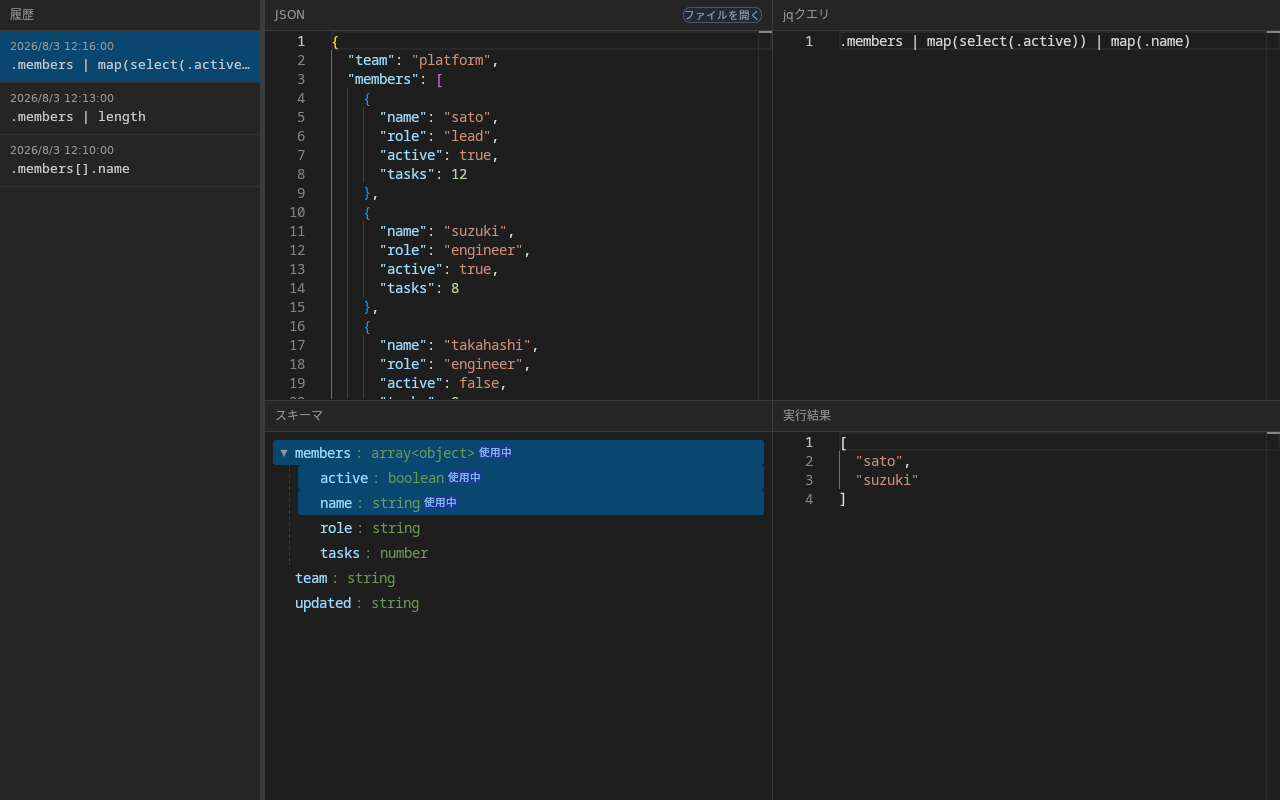
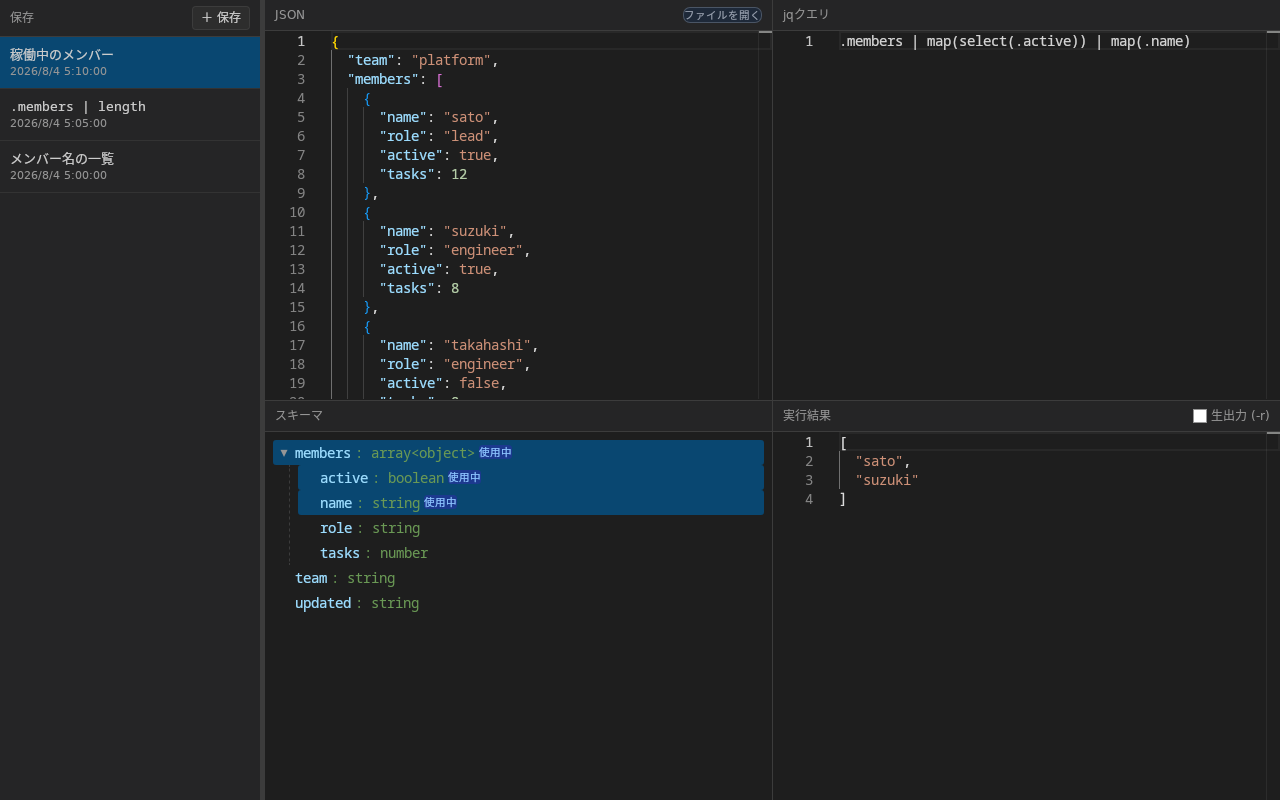
サイト公開: ビルド成果物を更新

Changed region(s): [[0.0, 0.0, 0.2188, 0.1562], [0.0, 0.1875, 0.0938, 0.2188], [0.9375, 0.5, 0.9688, 0.5312]]

diff --git a/apps/shiboq/index.html b/apps/shiboq/index.html
@@ -1,3 +1,3 @@
-<!doctype html><html lang=ja><head><meta charset=UTF-8><meta name=viewport content="width=device-width,initial-scale=1"><title>アプリ紹介</title><meta name=description content="オリジナルアプリを紹介するページ"><link rel=stylesheet href=/css/style.css></head><body><main class=container><p><a class=back-link href=/>&larr; アプリ一覧へ</a></p><article class=app-detail><header class=detail-header><h1>shiboq</h1><span class=app-platform>Windows</span><p class=app-tagline>jq のクエリを書きながら結果をその場で確認できるデスクトップアプリ</p></header><figure class=detail-shot><img src=/img/shiboq.png alt="shiboq のスクリーンショット"></figure><p class=app-note>名前は必要な部分を「絞る（しぼる）」と、JSON を扱う道具 jq の q を合わせた造語。</p><section class=detail-section><h2>どんなアプリ？</h2><ul><li>JSON から必要な部分を取り出す「jq」という書き方を、試しながら書けるデスクトップアプリ。</li><li>JSON を貼り付けて書き方を入力すると、手が止まったタイミングで自動的に実行され、結果が表示されます。</li><li>実行ボタンを押す必要はなく、書いては結果を見て直す、を繰り返せます。</li></ul></section><section class=detail-section><h2>画面</h2><ul><li>5つのエリアに分かれています。左が「履歴」、中央上が元の「JSON」、中央下がその「スキーマ」。</li><li>右上が「jqクエリ」（取り出し方を書く欄）、右下が「実行結果」。</li><li>中央下のスキーマには、JSON に含まれるキー（項目名）とその種類が一覧で表示されます。</li></ul></section><section class=detail-section><h2>書きながら助けになる機能</h2><ul><li>いま書いているクエリが参照しているキーが、スキーマの一覧で色付きで示されます。</li><li>クエリ欄では、その JSON に含まれるキー名や jq のよく使う関数が入力候補として出ます。</li><li>書き間違えて動かないときは、間違いの内容が表示され、結果は直前に成功したものが残ります。</li></ul></section><section class=detail-section><h2>履歴</h2><ul><li>実行がうまくいくたびに、そのときの JSON・クエリ・結果がまとめて履歴に残ります。</li><li>履歴をクリックすると、その3つがまとめて元に戻るので、前の状態からやり直せます。</li><li>履歴はパソコン内に保存され、アプリを閉じても残ります（古いものから自動で整理されます）。</li></ul></section><section class=detail-section><h2>そのほか</h2><ul><li>jq を別途インストールする必要はありません（アプリに内蔵されています）。</li><li>インターネットにつながなくても使えます。</li><li>履歴一覧の幅はドラッグで変えられ、次に開いたときも保たれます。</li></ul></section><div class="app-links detail-links"><a class="btn btn-primary" href=https://github.com/morststs/shiboq/releases/latest/download/shiboq-windows-amd64.zip target=_blank rel="noopener noreferrer">アプリダウンロード (.zip)</a>
+<!doctype html><html lang=ja><head><meta charset=UTF-8><meta name=viewport content="width=device-width,initial-scale=1"><title>アプリ紹介</title><meta name=description content="オリジナルアプリを紹介するページ"><link rel=stylesheet href=/css/style.css></head><body><main class=container><p><a class=back-link href=/>&larr; アプリ一覧へ</a></p><article class=app-detail><header class=detail-header><h1>shiboq</h1><span class=app-platform>Windows</span><p class=app-tagline>jq のクエリを書きながら結果をその場で確認できるデスクトップアプリ</p></header><figure class=detail-shot><img src=/img/shiboq.png alt="shiboq のスクリーンショット"></figure><p class=app-note>名前は必要な部分を「絞る（しぼる）」と、JSON を扱う道具 jq の q を合わせた造語。</p><section class=detail-section><h2>どんなアプリ？</h2><ul><li>JSON から必要な部分を取り出す「jq」という書き方を、試しながら書けるデスクトップアプリ。</li><li>JSON を貼り付けて書き方を入力すると、手が止まったタイミングで自動的に実行され、結果が表示されます。</li><li>実行ボタンを押す必要はなく、書いては結果を見て直す、を繰り返せます。</li></ul></section><section class=detail-section><h2>画面</h2><ul><li>5つのエリアに分かれています。左が「保存」、中央上が元の「JSON」、中央下がその「スキーマ」。</li><li>右上が「jqクエリ」（取り出し方を書く欄）、右下が「実行結果」。</li><li>中央下のスキーマには、JSON に含まれるキー（項目名）とその種類が一覧で表示されます。</li></ul></section><section class=detail-section><h2>書きながら助けになる機能</h2><ul><li>いま書いているクエリが参照しているキーが、スキーマの一覧で色付きで示されます。</li><li>クエリ欄では、その JSON に含まれるキー名や jq のよく使う関数が入力候補として出ます。</li><li>書き間違えて動かないときは、間違いの内容が表示され、結果は直前に成功したものが残ります。</li><li>結果が文字列のときは、引用符を外した「生出力」表示に切り替えられます（表形式で取り出したときに読みやすくなります）。</li></ul></section><section class=detail-section><h2>保存</h2><ul><li>残しておきたい状態は「＋ 保存」ボタン（または Ctrl+S）で保存します。自動では保存されません。</li><li>保存するとき名前を付けられます。省略した場合は、そのときのクエリが一覧に表示されます。</li><li>一覧をクリックすると、JSON・クエリ・結果の3つがまとめて元に戻るので、前の状態からやり直せます。</li><li>保存したものはパソコン内に残り、アプリを閉じても消えません。いらなくなったものは削除できます。</li></ul></section><section class=detail-section><h2>そのほか</h2><ul><li>jq を別途インストールする必要はありません（アプリに内蔵されています）。</li><li>インターネットにつながなくても使えます。</li><li>保存一覧の幅はドラッグで変えられ、次に開いたときも保たれます。</li></ul></section><div class="app-links detail-links"><a class="btn btn-primary" href=https://github.com/morststs/shiboq/releases/latest/download/shiboq-windows-amd64.zip target=_blank rel="noopener noreferrer">アプリダウンロード (.zip)</a>
 <a class=btn href=https://github.com/morststs/shiboq/releases/latest target=_blank rel="noopener noreferrer">最新リリース</a>
 <a class=btn href=https://github.com/morststs/shiboq target=_blank rel="noopener noreferrer">GitHub</a></div></article></main><footer class=site-footer><p>&copy; 2026 アプリ紹介</p></footer></body></html>
